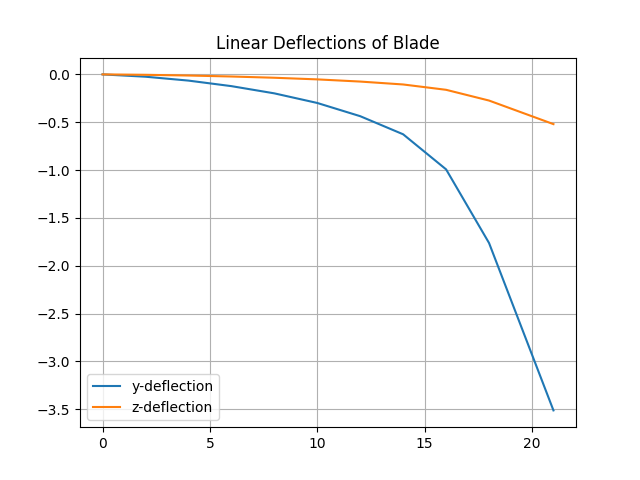
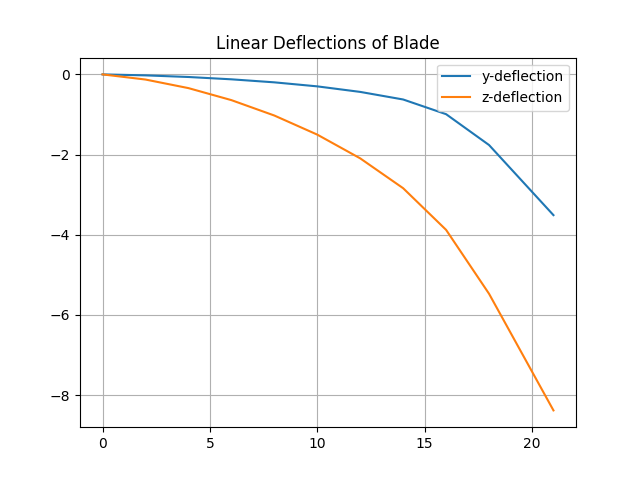
Refactored and finished Step 5

diff --git a/Step_5.py b/Step_5.py
@@ -14,6 +14,70 @@ import matplotlib.pyplot as plot
 from Step_3 import TurbineBlade
 
 
+class Hub:
+
+    def __init__(self, blade, num_blades):
+        self.blade = blade
+        self.n_blades = num_blades
+
+    def thrust(self):
+        return self.blade.thrust * self.n_blades
+
+    def torque(self):
+        return self.blade.torque * self.n_blades
+
+    def power(self):
+        return self.blade.power * self.n_blades
+
+    def shaft_speed(self):
+        return self.blade.rpm
+
+
+class GearBox:
+
+    def __init__(self, mechanical_input, ratio, **kwargs):
+        self.ratio = ratio
+        self.inp = mechanical_input
+        if "efficiency" in kwargs:
+            self.efficiency = kwargs["efficiency"]
+        else:
+            self.efficiency = 1
+
+    def torque(self):
+        return self.inp.torque() * self.ratio * self.efficiency
+
+    def power(self):
+        return self.inp.power() * self.efficiency
+
+    def shaft_speed(self):
+        return self.inp.shaft_speed() / self.ratio
+
+
+class Generator:
+
+    def __init__(self, mechanical_input, slip_list, torque_list, power_list, **kwargs):
+        self.slip_list = slip_list
+        self.torque_list = tuple(abs(t) for t in torque_list)
+        self.power_list = power_list
+        self.sync_speed = 1800
+        self.rotor = mechanical_input
+
+        if "efficiency" in kwargs:
+            self.efficiency = kwargs['efficiency']
+        else:
+            self.efficiency = 1
+
+    def torque_reaction(self):
+        return -np.interp(self.slip(), self.slip_list, self.torque_list)
+
+    def power(self):
+        return np.interp(self.slip(), self.slip_list, self.power_list)
+
+    def slip(self):
+        torque = self.rotor.torque()
+        # print("==================", torque, '\n', self.torque_list, '\n', self.slip_list)
+        return np.interp(torque, self.torque_list, self.slip_list)
+
 if __name__ == "__main__":
     """We will again consider the wind turbine blade design we considered in Step 3. Here we will estimate the
     wind turbine power curve by coupling this turbine blade (actually 3 of them) to an induction generator through
@@ -21,14 +85,11 @@ if __name__ == "__main__":
     below. Recall that the turbine was rotating at 30 rpm. However, the input to this generator must be 1800 rpm."""
 
     from Step_3 import TurbineBlade
+    import copy
 
     debug = True
 
-    nns = [1.000, 1.005, 1.010, 1.015, 1.020, 1.025, 1.030, 1.035, 1.040]
-    T = [0.0, -0.5, -1.0, -1.5, -2.0, -2.5, -2.8, -3.0, -2.8]
-    P = [0.0, -100.0, -200.0, -290.0, -375.0, -455.0, -500.0, -500.0, -480.0]
-
-
+    # Blade properties
     r = [4, 6, 8, 10, 12, 14, 16, 18, 20]  # m
     R = 21  # m
     chord = [1.5, 1.4, 1.3, 1.2, 1.0, 0.8, 0.6, 0.4, 0.2]  # m
@@ -40,66 +101,57 @@ if __name__ == "__main__":
     filenames = ("data/DU97W300AoAClCd.csv",) * 3 + ("data/DU91W250AoAClCd.csv",) * 3 + (
                                                                                         "data/DU95W180AoAClCd.csv",) * 3
 
+    # Blade
+    blade = TurbineBlade(length=21, min_aero_radius=3, section_radii=r, section_chord=chord,
+                         section_twist=theta_p, RPM=RPM, filenames=filenames)
+
+    # Blade Hub
+    hub = Hub(blade=blade, num_blades=N_blades)
+
+    # Gearbox
+    gearbox = GearBox(mechanical_input=hub, ratio=blade.rpm / 1800)
+
+    # Generator
+    nns = [1.000, 1.005, 1.010, 1.015, 1.020, 1.025, 1.030, 1.035]  # dimensionless
+    T = [0.0, -500.0, -1000.0, -1500.0, -2000.0, -2500.0, -2800.0, -3000.0]  # N m
+    P = [0.0, -100.0, -200.0, -290.0, -375.0, -455.0, -500.0, -500.0]  # kW
+    generator = Generator(mechanical_input=gearbox, slip_list=nns, torque_list=T, power_list=P)
 
     """Repeat blade element calculations for 4, 6, 8, 10, and 12 m/s.
     Determine the torque for each of these conditions."""
-    ux1 = [4, 6, 8, 10, 12]  # m/s
-    turbines = []
+    ux1 = [4, 6, 8, 10, 12, 14, 16, 18, 20]  # m/s
+    generated_power = []
+    print("Wind Speed: Hub Torque | Generator Rotor Torque")
     for i, vel in enumerate(ux1):
-        turbines.append(TurbineBlade(length=21, min_aero_radius=3, section_radii=r, section_chord=chord,
-                         section_twist=theta_p, RPM=RPM, filenames=filenames))
-        turbines[i].calculations(ux1=vel, num_blades=N_blades)
-        print("{:12}:  {:.2f} kN".format("Thrust", N_blades * turbines[i].thrust * 10 ** -3))
-        print("{:12}:  {:.2f} kN m".format("Hub Torque", N_blades * turbines[i].torque * 10 ** -3))
-        print("{:12}:  {:.2f} kN m".format("Gen Torque", N_blades * turbines[i].torque * 10 ** -3 / gearratio))
-        print("{:12}:  {:.2f}".format("Gear ratio", gearratio), '\n')
-
-    gentorque = []
-    for turbine in turbines:
-        gentorque.append(turbine.torque / gearratio)
-
-    print(gentorque)
+        blade.calculations(ux1=vel, num_blades=3)
+        generated_power.append(copy.deepcopy(-generator.power()))
+        print("{:6.0f} m/s:{:7.2f} kNm | {:7.2f} kNm".format(vel, hub.torque() * 10 ** -3,
+                                                             generator.rotor.torque() * 10 ** -3))
 
     """Using these torque values, determine the power output from the generator assuming no losses in the bearings
-    or gearbox (i.e. power is conserved through the transmission). Present your results as a wind turbine power curve."""
+    or gearbox (i.e. power is conserved through the transmission). Present results as a wind turbine power curve."""
+    print('\n', "Wind Speed: Gen power")
+    for vel, power in zip(ux1, generated_power):
+        print("{:6.0f} m/s:{:7.2f} kW".format(vel, power))
+
+    ux1.insert(0, 2)
+    generated_power.insert(0, 0)
+    ux1.insert(0, 0)
+    generated_power.insert(0, 0)
+
+    plot.figure()
+    plot.plot(ux1, generated_power, 'k-', marker='o', label="Power curve")
+    plot.plot(ux1, [425] * len(ux1), 'k--', label="Rated output")
+    plot.legend(loc='lower right')
+    plot.title('Power Curve at 0 deg blade pitch')
+    plot.xlabel('Wind velocity [m/s]')
+    plot.ylabel('Power [kW]')
+    plot.grid()
+
+    plot.savefig(filename="output\step5_turbine_power_curve.png", format='png')
 
     """If the wind speed got any higher, what would be the danger of continuing to allow the torque to the generator to
     increase? What could be done to ensure the generator still worked effectively at these higher wind speeds?"""
 
-# power = np.zeros(len(ux1))
-# torque = np.zeros(len(ux1))
-# gentorque = np.zeros(len(ux1))
-#
-# for i,vel in enumerate(ux1):
-#     BEM_data = BEM(r,chord,theta_p,vel,RPM,N_blades,filename)
-#     alpha = BEM_data[0]
-#     alpha_corr = BEM_data[1]
-#     C_N = BEM_data[2]
-#     C_T = BEM_data[3]
-#     F_N = BEM_data[4]
-#     F_T = BEM_data[5]
-#     thrust = BEM_data[6]
-#     torque[i] = BEM_data[7]
-#     power[i] = BEM_data[8]
-#     if np.isnan(torque[i]) == True:
-#         torque[i] = 0
-#     if np.isnan(power[i]) == True:
-#         power[i] = 0
-#     print 'Hub Torque:  {0:.2f} kN m'.format(torque[i]*10**-3),'Hub Power:  {0:.2f} kW'.format(power[i]*10**-3)
-#
-#     gentorque[i] = torque[i] / gearratio
-#     print 'Generator Torque:  {0:.2f} kN m'.format(-gentorque[i] *10**-3)
-#
-# #genpower = np.zeros(len(gentorque))
-# #for i,tor in enumerate(gentorque):
-# #    # genpower[i] is the power produced by the torque fed into the generator
-# #    genpower[i] = np.interp(tor,T,P)
-#
-# plot.figure(1)
-# plot.plot(ux1,power*10**-3, 'k--', marker='o', label="Power curve")
-# plot.legend(loc='lower right')
-# plot.title('Power Curve')
-# plot.xlabel('Wind velocity [m/s]')
-# plot.ylabel('Power [kW]')
-# plot.grid()
-    
+    # There's no danger at this blade pitch, as the blade stalls before the hub torque can overwhelm the generator's
+    # maximum back-torque.

diff --git a/Step_3.py b/Step_3.py
@@ -29,6 +29,14 @@ class TurbineBlade:
         self.file_names = filenames
         self.omega = (float(RPM)/60) * 2 * pi  # rads/s
         self.num_sections = len(section_radii)
+        self.reset_values()
+
+        try:
+            assert len(filenames) == len(section_radii)
+        except AssertionError:
+            print('filenames must be the same length as section_radii')
+
+    def reset_values(self):
         self._thrust = None
         self._torque = None
         self._power = None
@@ -40,11 +48,6 @@ class TurbineBlade:
         self._sec_alpha_corr = []
         self._sec_norm_coef_uncorr = []
         self._sec_tang_coef_uncorr = []
-
-        try:
-            assert len(filenames) == len(section_radii)
-        except AssertionError:
-            print('filenames must be the same length as section_radii')
 
     @staticmethod
     def get_CLCD(filename, alpha):
@@ -182,9 +185,11 @@ class TurbineBlade:
         F_N_corr = C_N_corr * .5 * rho * chord * (w ** 2)
         F_T_corr = C_T_corr * .5 * rho * chord * (w ** 2)
 
+        # print("BEM ran!")
         return alpha_deg, alpha_corr_deg, C_N_corr, C_T_corr, F_N_corr, F_T_corr, C_N, C_T
 
     def calculations(self, ux1=10, num_blades=3, rho=1.23, debug=False):
+        self.reset_values()
         for file, radius, theta_P, chord in zip(self.file_names, self.sec_radii, self.sec_theta_p, self.sec_chord):
             a, a_corr, C_N_corr, C_T_corr, F_N, F_T, C_N, C_T = self.blade_element_momentum(file, radius, theta_P, chord, ux1, num_blades, rho, debug)
             self._sec_alpha.append(a)
@@ -195,6 +200,7 @@ class TurbineBlade:
             self._sec_tang_force.append(F_T)
             self._sec_norm_coef_uncorr.append(C_N)
             self._sec_tang_coef_uncorr.append(C_T)
+        # print("Calculations ran!")
         return self
 
     @property

diff --git a/Step_4.py b/Step_4.py
@@ -254,7 +254,7 @@ if __name__ == "__main__":
     dy_dx = angular_def(x, E, Ix, moment_norm)
     dy = linear_def(x, dy_dx)
 
-    dz_dx = angular_def(x, E, Ix, moment_tang)
+    dz_dx = angular_def(x, E, Iy, moment_tang)
     dz = linear_def(x, dz_dx)
 
     if debug:
